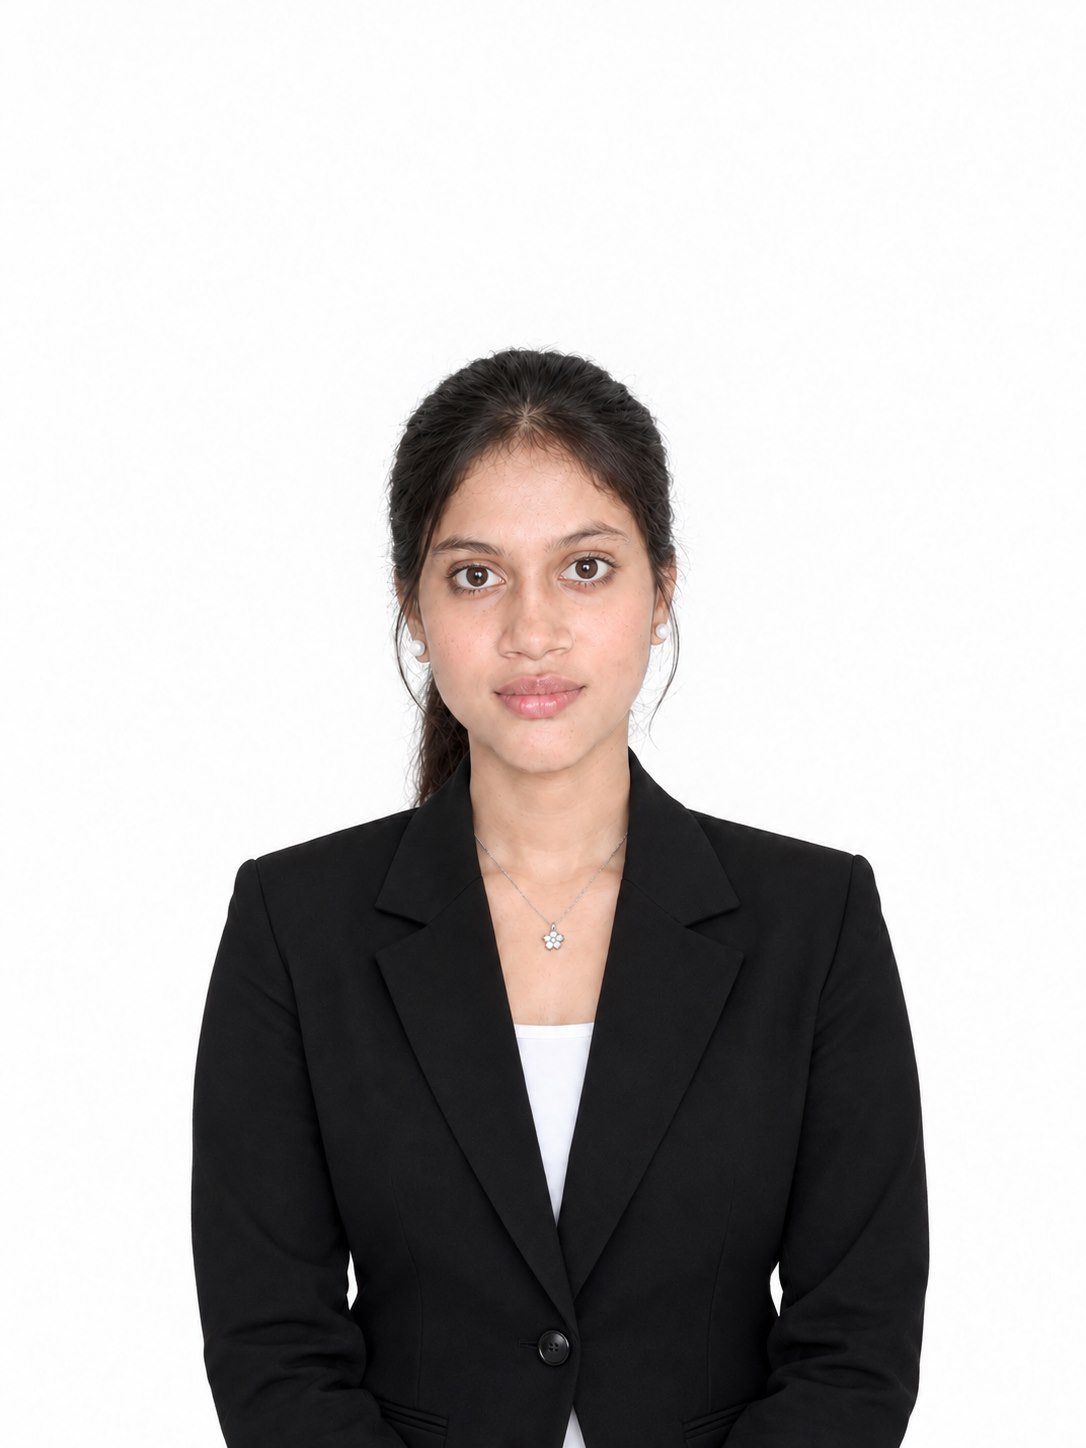
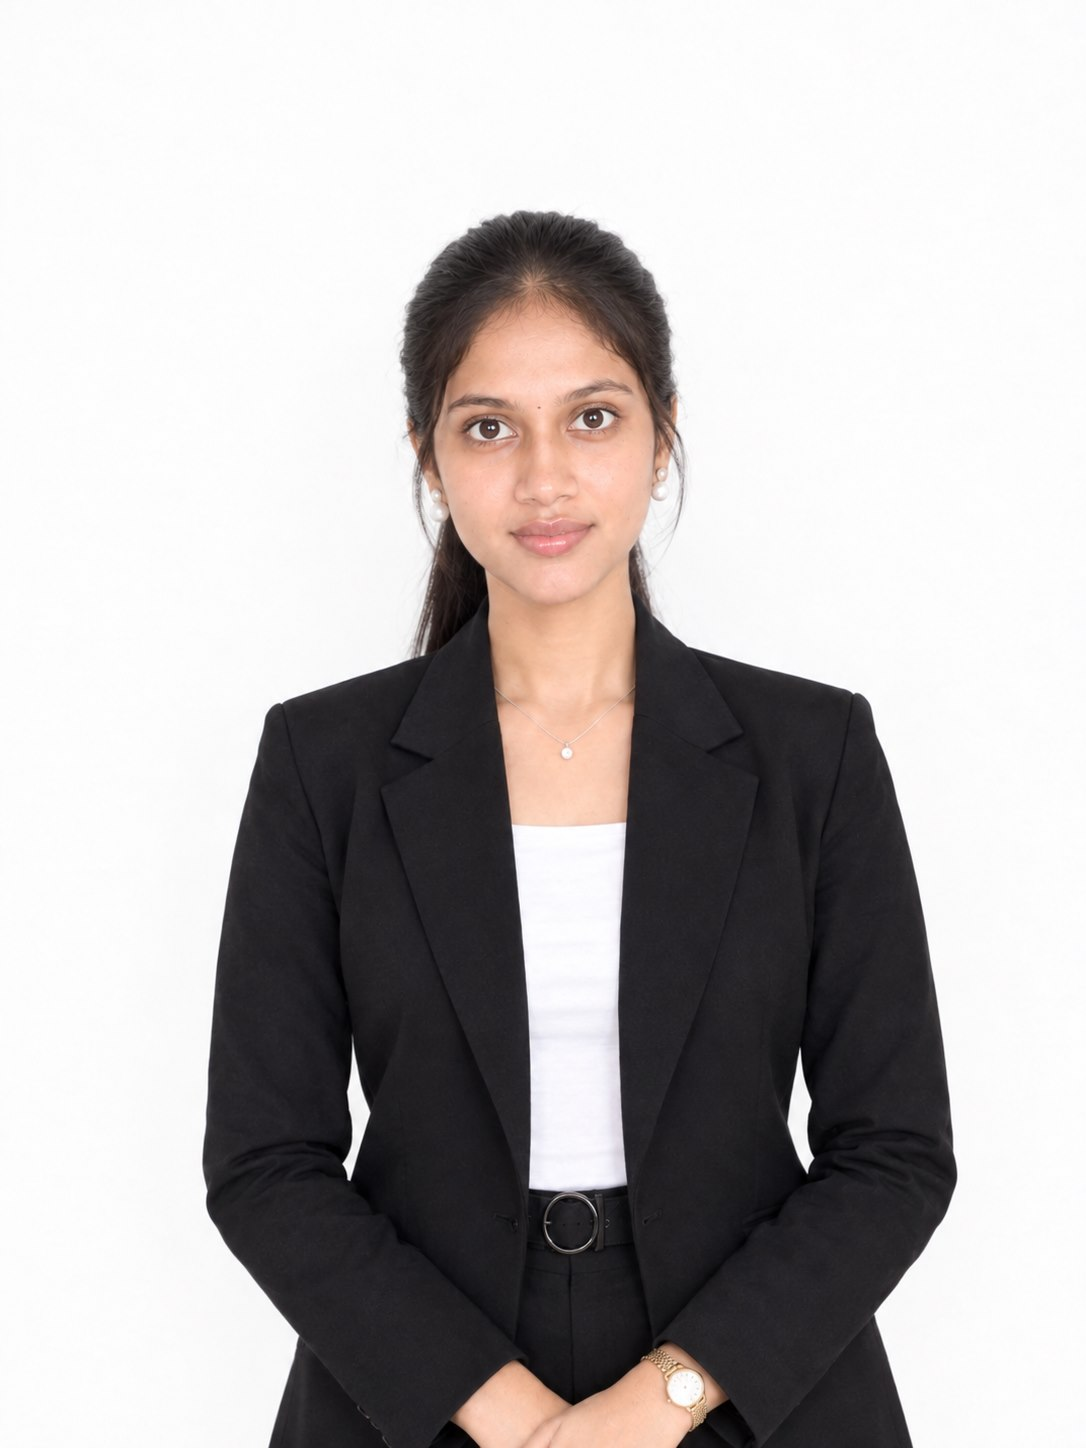
Use kritika ji photo for About section, restore Hero photo

diff --git a/artifacts/kritika-portfolio/src/App.tsx b/artifacts/kritika-portfolio/src/App.tsx
@@ -490,7 +490,7 @@ const hobbies = [
 const HERO_LINE_ONE = 'I am';
 const HERO_LINE_TWO = 'Kritika';
 
-const PROFILE_PHOTO = '/kritika.jpg';
+const PROFILE_PHOTO = '/kritika-about.jpg';
 
 function AboutPhoto() {
   return (
